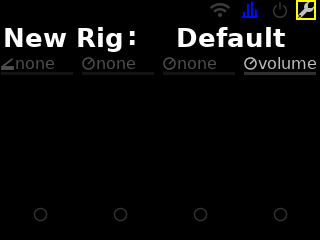
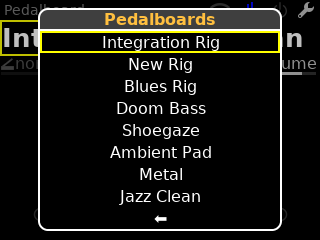
Decent initial take

diff --git a/src/using/navigation.md b/src/using/navigation.md
@@ -9,16 +9,16 @@ eleventyNavigation:
 
 # Navigation & Controls
 
-The pi-Stomp v3 is controlled entirely from the front panel — no computer needed once your pedalboards are loaded. Everything flows through the Navigation encoder, the LCD, the footswitches, and the tweak encoders.
+The pi-Stomp v3 can be controlled entirely from the device: no computer needed once your pedalboards are set up. Simply use the Navigation encoder, the footswitches, and the tweak encoders.
 
 ## The LCD screen
 
 The home screen shows the current pedalboard, active snapshot, and all plugins in the chain. The Navigation encoder moves a yellow highlight between elements; clicking takes action on whatever is highlighted.
 
-<img src="{{ '/assets/images/lcd-homescreen-beths.png' | url }}" alt="Home screen with pedalboard loaded" style="display:block;width:80%;margin:0 auto 1rem auto">
+<img src="{{ '/assets/images/lcd-homescreen-beths.png' | url }}" alt="Home screen with pedalboard loaded" style="display:block;width:70%;margin:2rem auto">
 
-- **Pedalboard name** (top) — click to enter pedalboard selection mode
-- **Snapshot name** (below pedalboard) — click to enter snapshot selection mode
+- **Pedalboard name** (top) — click to open the pedalboard menu
+- **Snapshot name** (below pedalboard) — click to open the snapshot menu
 - **Plugin tiles** — each block represents a plugin in the chain. Filled = enabled, unfilled = bypassed
 - **Toolbar icons** (top right) — Wi-Fi status, audio settings, bypass, system menu
 
@@ -34,20 +34,20 @@ The leftmost encoder is the primary interface to the LCD.
 
 ## Selecting a pedalboard
 
-<img src="{{ '/assets/images/lcd-pedalboard-select.png' | url }}" alt="Pedalboard selection" style="display:block;width:80%;margin:0 auto 1rem auto">
+<img src="{{ '/assets/images/lcd-pedalboard-select.png' | url }}" alt="Pedalboard selection" style="display:block;width:70%;margin:2rem auto">
 
 1. Rotate the Navigation encoder until the pedalboard name is highlighted (yellow)
-2. Click to enter pedalboard selection mode
+2. Click to open the pedalboard menu
 3. Rotate to scroll through available pedalboards
-4. Click to load the selected pedalboard
+4. Click a pedalboard to load it
 
-Loading a new pedalboard takes a few seconds.
+Loading a new pedalboard takes a few seconds, during which time audio can drop momentarily.
 
 ## Selecting a snapshot
 
-Snapshots store the state of all plugin parameters on a pedalboard — verse, chorus, bridge, all from the same pedalboard.
+Snapshots store the state of all plugin parameters on a pedalboard, allowing different gain staging and effect blending/bypass. Verse, chorus, bridge, even different songs: all from the same pedalboard.
 
-<img src="{{ '/assets/images/lcd-preset-select.png' | url }}" alt="Snapshot selection" style="display:block;width:80%;margin:0 auto 1rem auto">
+<img src="{{ '/assets/images/lcd-preset-select.png' | url }}" alt="Snapshot selection" style="display:block;width:70%;margin:2rem auto">
 
 1. Rotate the Navigation encoder until the snapshot name is highlighted
 2. Click to enter snapshot selection mode
@@ -58,28 +58,36 @@ You can also switch snapshots by long-pressing footswitches A and B (previous an
 
 ## Bypassing and enabling plugins
 
-1. Rotate the Navigation encoder until a plugin tile is highlighted
-2. Click to toggle between enabled (filled) and bypassed (unfilled)
+1. Rotate the Navigation encoder until a plugin tile is highlighted (yellow border)
+2. Click to toggle between enabled and bypassed
 
-Plugins assigned to footswitches can also be toggled from the floor.
+An enabled plugin shows as a filled block:
+
+<img src="{{ '/assets/images/lcd-plugin-active.png' | url }}" alt="Plugin enabled — filled block" style="display:block;width:70%;margin:2rem auto">
+
+A bypassed plugin shows as an unfilled (outline) block:
+
+<img src="{{ '/assets/images/lcd-plugin-bypassed.png' | url }}" alt="Plugin bypassed — outline block" style="display:block;width:70%;margin:2rem auto">
+
+Plugins assigned to footswitches can also be toggled from the floor — the footswitch label on the LCD updates to reflect the current state. When it's bound to a plugn, pressing the footswitch will toggle it on and off (bypass/enable).
 
 ## Editing plugin parameters
 
 1. Highlight a plugin tile and long-press the Navigation encoder
 
-<img src="{{ '/assets/images/lcd-param-menu.png' | url }}" alt="Parameter menu" style="display:block;width:80%;margin:0 auto 1rem auto">
+<img src="{{ '/assets/images/lcd-param-menu.png' | url }}" alt="Parameter menu" style="display:block;width:70%;margin:2rem auto">
 
 2. Rotate to select a parameter, then click
 
-<img src="{{ '/assets/images/lcd-param-dialog.png' | url }}" alt="Parameter edit dialog" style="display:block;width:80%;margin:0 auto 1rem auto">
+<img src="{{ '/assets/images/lcd-param-dialog.png' | url }}" alt="Parameter edit dialog" style="display:block;width:70%;margin:2rem auto">
 
 3. Rotate to adjust the value — changes take effect immediately
 
-<img src="{{ '/assets/images/lcd-param-tweaked.png' | url }}" alt="Parameter adjusted" style="display:block;width:80%;margin:0 auto 1rem auto">
+<img src="{{ '/assets/images/lcd-param-tweaked.png' | url }}" alt="Parameter adjusted" style="display:block;width:70%;margin:2rem auto">
 
 4. Click to close the dialog
 
-<img src="{{ '/assets/images/lcd-param-closed.png' | url }}" alt="Back to home screen" style="display:block;width:80%;margin:0 auto 1rem auto">
+<img src="{{ '/assets/images/lcd-param-closed.png' | url }}" alt="Back to home screen" style="display:block;width:70%;margin:2rem auto">
 
 ## Footswitches
 
@@ -92,7 +100,15 @@ The four footswitches (A–D, left to right) are user-configurable via MIDI CC. 
 | C | Toggle MIDI CC 62 (plugin bypass) | Open tuner |
 | D | Toggle MIDI CC 63 (plugin bypass) or tap tempo | Toggle tap tempo mode |
 
-In tap tempo mode, footswitch D shows the current BPM. Tap at least four times to set the tempo, then long-press to return to normal mode.
+When a footswitch is assigned to a plugin, its label and color appear on the LCD:
+
+<img src="{{ '/assets/images/lcd-footswitches.png' | url }}" alt="Footswitch labels on LCD" style="display:block;width:70%;margin:2rem auto">
+
+In tap tempo mode, footswitch D shows the current BPM:
+
+<img src="{{ '/assets/images/lcd-tap-tempo.png' | url }}" alt="Tap tempo mode on footswitch D" style="display:block;width:70%;margin:2rem auto">
+
+Tap at least four times to set the tempo, then long-press to return to normal mode.
 
 ## Tweak encoders
 
@@ -102,7 +118,7 @@ Tweak 1 and Tweak 2 send MIDI CC messages (default 70 and 71) and can be assigne
 
 Navigate to the wrench icon in the toolbar and click to open the system menu.
 
-<img src="{{ '/assets/images/lcd-system-menu.png' | url }}" alt="System menu" style="display:block;width:80%;margin:0 auto 1rem auto">
+<img src="{{ '/assets/images/lcd-system-menu.png' | url }}" alt="System menu" style="display:block;width:70%;margin:2rem auto">
 
 From here you can manage pedalboards, configure Wi-Fi, adjust audio settings, and access system utilities.
 
@@ -110,10 +126,10 @@ From here you can manage pedalboards, configure Wi-Fi, adjust audio settings, an
 
 From the system menu, select **Tuner**. You can also open and close the tuner by long-pressing footswitch C.
 
-<img src="{{ '/assets/images/lcd-tuner.png' | url }}" alt="Tuner — no signal" style="display:block;width:80%;margin:0 auto 1rem auto">
+<img src="{{ '/assets/images/lcd-tuner.png' | url }}" alt="Tuner — no signal" style="display:block;width:70%;margin:2rem auto">
 
 Play a string and the tuner shows the note and a visual indicator.
 
-<img src="{{ '/assets/images/lcd-tuner-signal.png' | url }}" alt="Tuner — with signal" style="display:block;width:80%;margin:0 auto 1rem auto">
+<img src="{{ '/assets/images/lcd-tuner-signal.png' | url }}" alt="Tuner — with signal" style="display:block;width:70%;margin:2rem auto">
 
 Use the navigation encoder to toggle mute while tuning, if desired.

diff --git a/src/using/quick-start.md b/src/using/quick-start.md
@@ -4,7 +4,36 @@ eleventyNavigation:
   parent: using
   key: quick-start
   title: Quick Start
-  order: 1
+  order: 2
 ---
 
 # Quick Start
+
+## Connect
+
+- Plug your instrument into the **In 1** jack
+- Connect **Out 1** to your amp, interface, or headphones
+
+## Boot
+
+Plug in the 27W USB-C power supply. First boot takes a minute or two — subsequent boots are about 20 seconds. The LCD will show the home screen when ready.
+
+## Adjust input gain
+
+If the audio sounds distorted (in a bad way) or the input clipping LEDs turn yellow or red with normal playing:
+
+1. Rotate the Navigation encoder to highlight the Audio toolbar icon (top right)
+2. Click to open the Audio menu
+3. Select **Input Gain** and turn it down until loud strums no longer clip
+
+## Make music
+
+The default pedalboard loads automatically. Use the footswitches to toggle effects, the Navigation encoder to browse and to bypass/enable plugins, and the tweak knobs to adjust parameters.
+
+Learn more in [Navigation & Controls]({{ '/using/navigation' | url }}).
+
+## Edit online
+
+Point a browser on any device on the same network to **[pistomp.local](http://pistomp.local)** to open MOD-UI — the drag-and-drop pedalboard editor.
+
+<a href="http://pistomp.local"><img src="{{ '/assets/images/mod-ui.png' | url }}" alt="MOD-UI web interface" style="display:block;width:80%;margin:1.5rem auto"></a>

diff --git a/src/using/hardware-overview.md b/src/using/hardware-overview.md
@@ -4,7 +4,7 @@ eleventyNavigation:
   parent: using
   key: hardware-overview
   title: Hardware Overview
-  order: 2
+  order: 1
 ---
 
 # Hardware Overview
